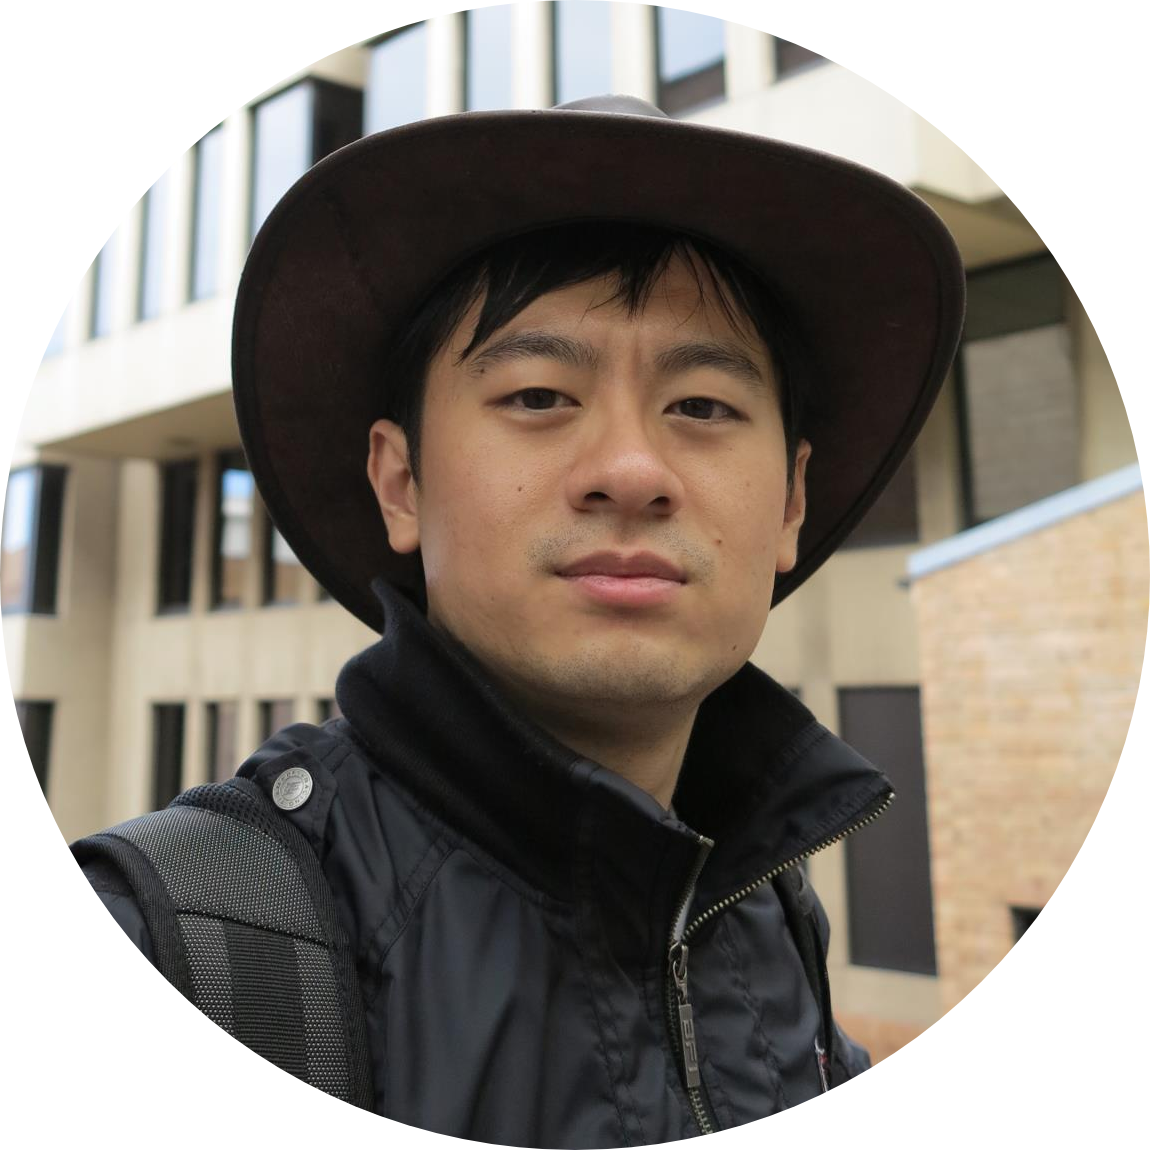
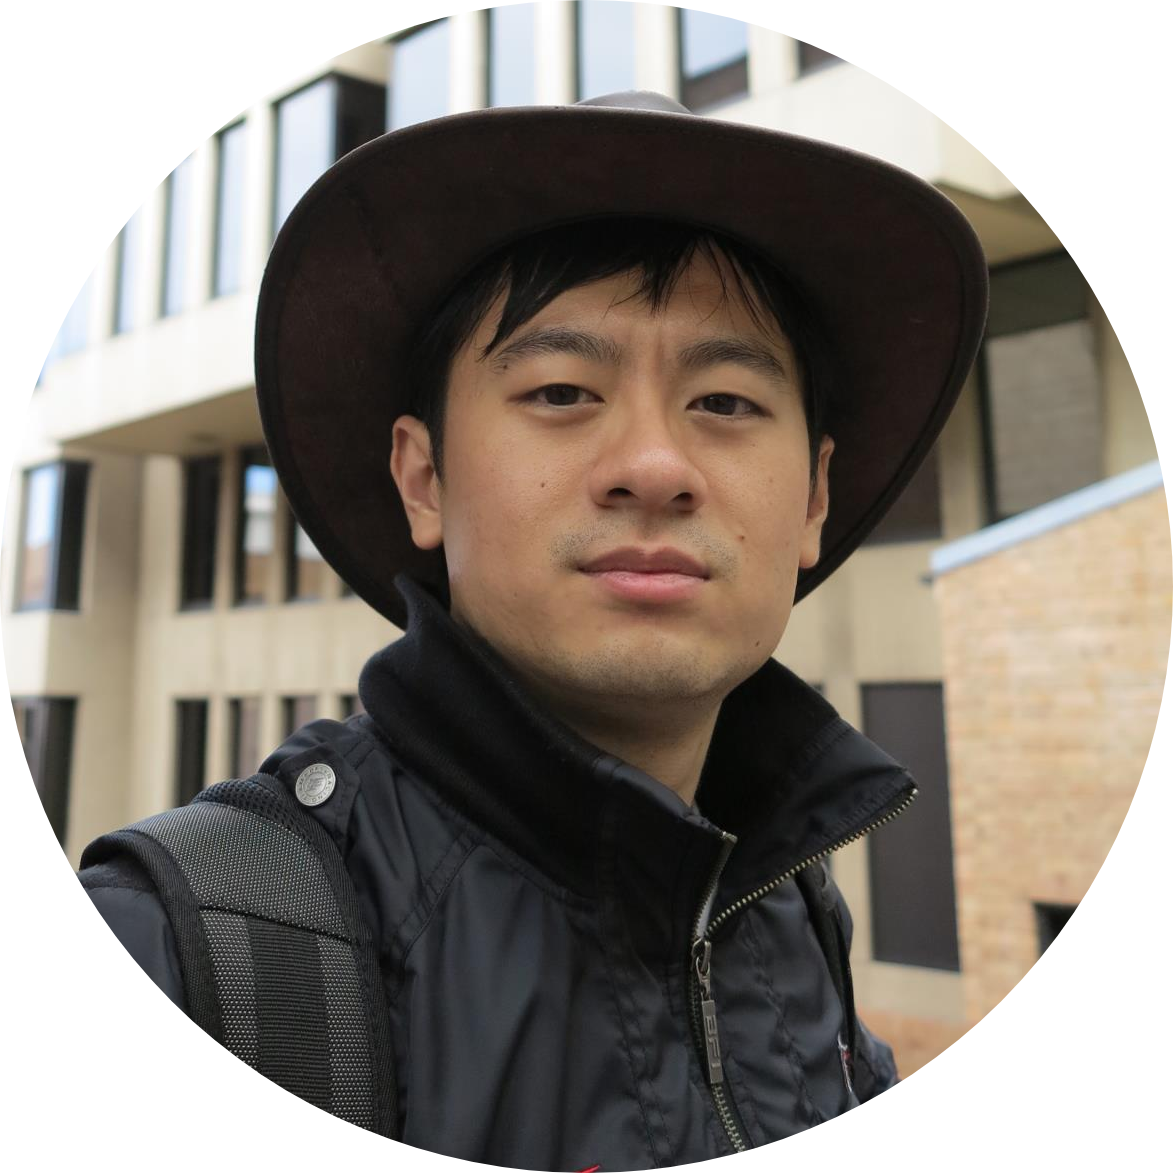
update

diff --git a/HTML - Personal Site/index.html b/HTML - Personal Site/index.html
@@ -8,24 +8,40 @@
   <meta name="author" content="Peter Lin">
   <meta name="viewport" content="width=device-width, initial-scale=1.0">
   <title>Peter's Personal Site</title>
-  <!--
-  <style media="screen">
-    body {
-      line-height: 2;
-    }
-  </style>
--->
+
 </head>
 
 <body>
-  <img src="peter.png" alt="peter profile picture">
+  <img src="peter.png" alt="peter profile picture" height="300" width="300">
   <h1>Peter Lin</h1>
   <p><em>Principle <strong>Software Engineer</strong> in Delta Electronic, Inc.</em></p>
   <p>
-    Hi! I'm Peter. A software engineer in Delta.
+    Hi! I'm <a href="https://www.linkedin.com/in/kunyinglin/">Peter</a>. A software engineer in Delta.
     <br>Currently I involve in a development project for the next generation IIoT edge data exchanger, called <strong>EEB</strong>.
-    <br>I mainly responsible for integrating OPC UA server base on <strong>open62541</strong> in EEB, debug and maintenance.
+    <br>I mainly responsible for integrating OPC UA server base on <strong>open62541</strong>, debug and maintenance in EEB.
   </p>
+  <hr>
+  <h3>Work Experience</h3>
+  <table border="1">
+    <thead>
+      <th>Dates</th>
+      <th>Work</th>
+    </thead>
+    <tbody>
+      <tr>
+        <td>2015 - Now</td>
+        <td>Principle engineer at Delta Research Center of Delta Electronic, Inc.</td>
+      </tr>
+      <tr>
+        <td>2012 - 2015</td>
+        <td>Co-founder and algorithm engineer at SAILS Technology</td>
+      </tr>
+      <tr>
+        <td>2009 - 2012</td>
+        <td>Senior RF engineer at Wistron NewWeb Cooperation</td>
+      </tr>
+    </tbody>
+  </table>
   <hr>
   <h3>Education</h3>
   <ul>
@@ -38,13 +54,8 @@
       <li>2002 - 2007, National Chung Cheng University</li>
     </ul>
   </ul>
-  <h3>My Hobbies</h3>
-  <ol type=i>
-    <li>Play drum</li>
-    <li>Play table tennis</li>
-    <li>Go hiking</li>
-    <li>Watching movie</li>
-  </ol>
+  <a href="hobbies.html">My Hobbies</a>
+  <a href="contact.html">Contact Information</a>
 
 </body>
 

diff --git a/HTML - Personal Site/hobbies.html b/HTML - Personal Site/hobbies.html
@@ -1,0 +1,19 @@
+<!DOCTYPE html>
+<html lang="en" dir="ltr">
+
+<head>
+  <meta charset="utf-8">
+  <title>Hobbies</title>
+</head>
+
+<body>
+  <h3>Hobbies</h3>
+  <ol type=i>
+    <li>Play drum</li>
+    <li>Play table tennis</li>
+    <li>Go hiking</li>
+    <li>Watching movie</li>
+  </ol>
+</body>
+
+</html>

diff --git a/HTML - Personal Site/contact.html b/HTML - Personal Site/contact.html
@@ -1,0 +1,13 @@
+<!DOCTYPE html>
+<html lang="en" dir="ltr">
+  <head>
+    <meta charset="utf-8">
+    <title>Contact</title>
+  </head>
+  <body>
+    <ul>
+      <li>Email: lkyptw@gmail.com</li>
+      <li>Phone: +886911772561</li>
+    </ul>
+  </body>
+</html>
